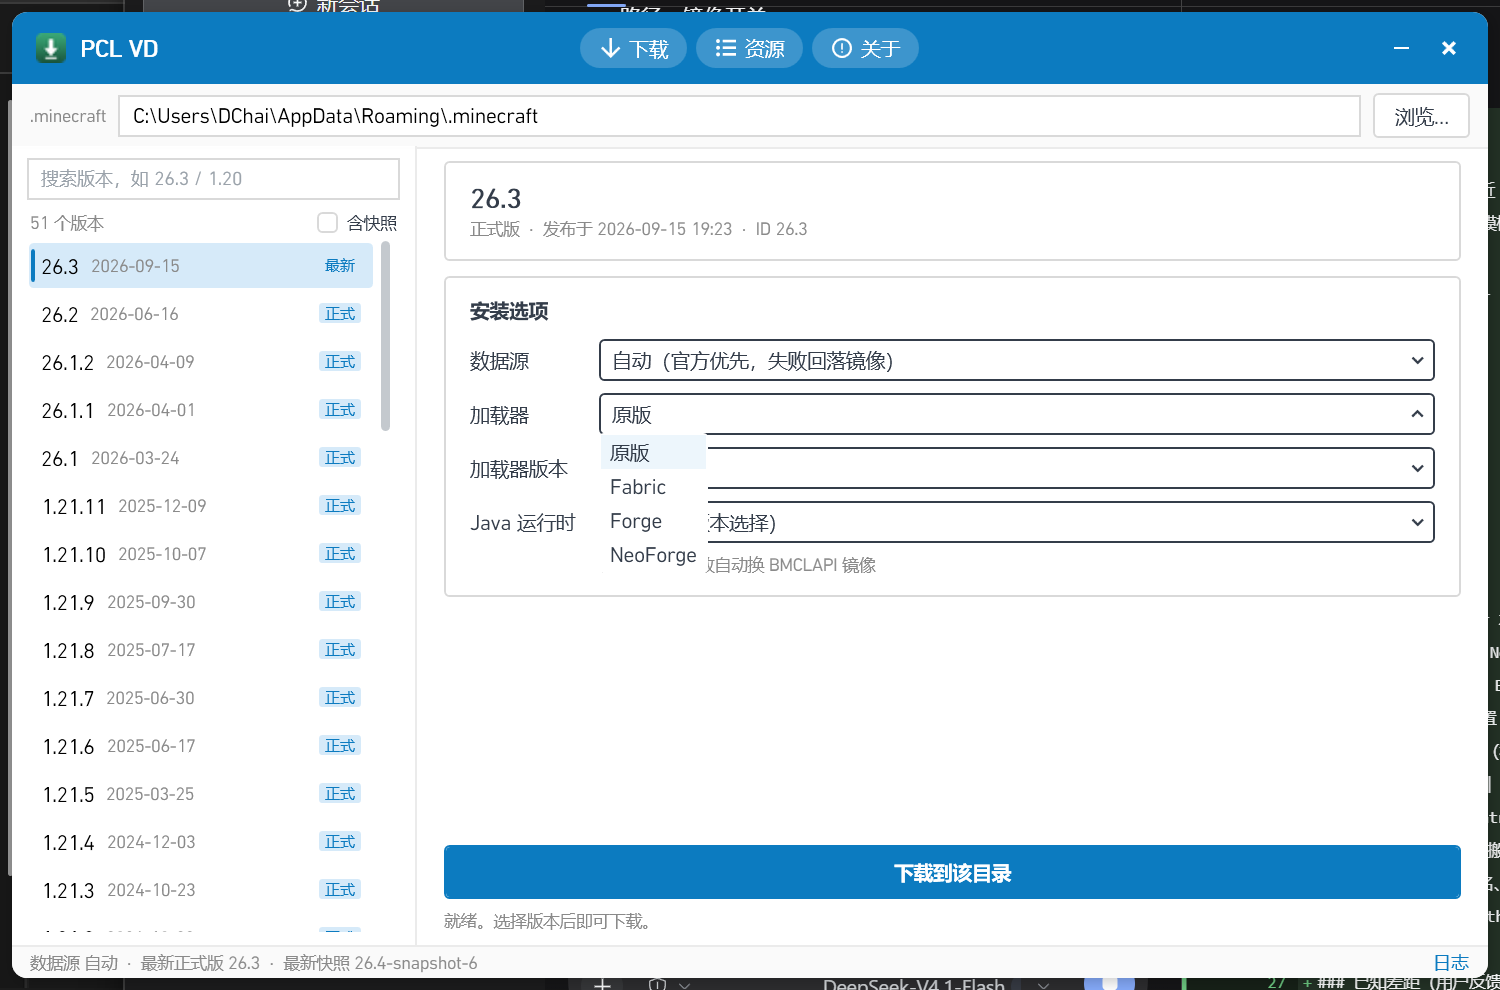
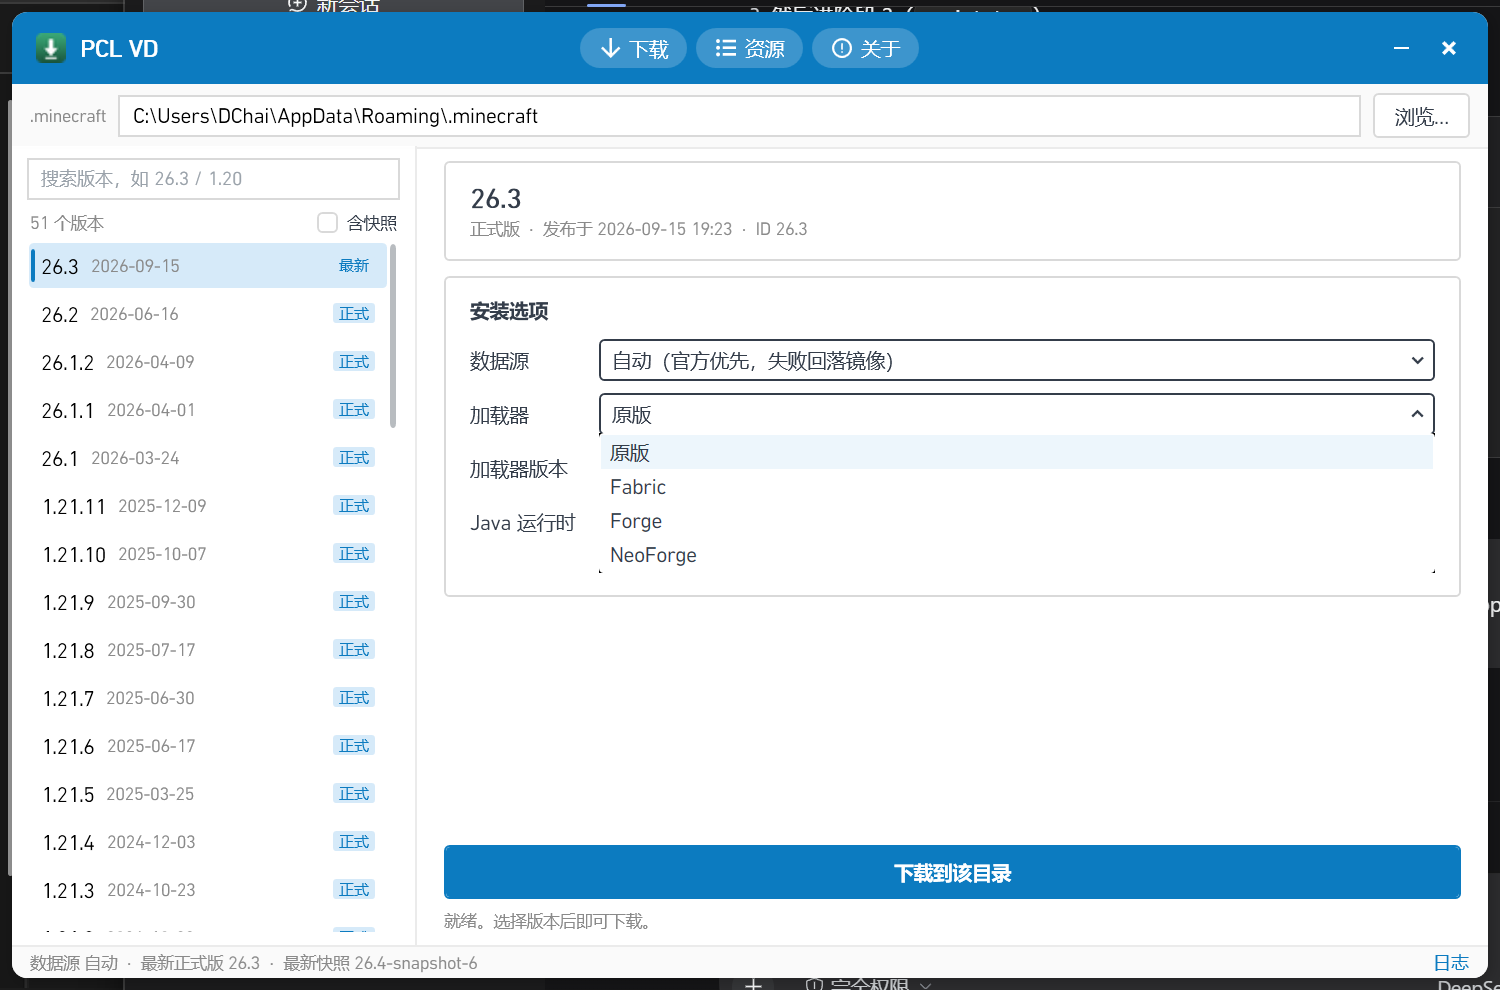
阶段1: 修复下拉弹层透底/宽度；搬入 PCL 的 ScrollBar+Thumb 模板

diff --git a/src/Mcdl.Wpf/App.xaml b/src/Mcdl.Wpf/App.xaml
@@ -213,13 +213,13 @@
                                 ContentTemplate="{TemplateBinding SelectionBoxItemTemplate}"
                                 ContentTemplateSelector="{TemplateBinding ItemTemplateSelector}" />
               <Popup x:Name="PART_Popup" SnapsToDevicePixels="True" VerticalOffset="-1.5"
-                     AllowsTransparency="True"
+                     AllowsTransparency="False"
                      IsOpen="{Binding IsDropDownOpen, Mode=TwoWay, RelativeSource={RelativeSource TemplatedParent}}"
-                     Placement="Bottom" PopupAnimation="Fade">
+                     Placement="Bottom" PopupAnimation="None">
                 <Grid x:Name="PanPopup">
                   <Border Background="White" CornerRadius="3" />
                   <Border x:Name="dropDownBorder" Background="White" CornerRadius="3" BorderBrush="{TemplateBinding BorderBrush}"
-                          BorderThickness="1" Width="{TemplateBinding Width}"
+                          BorderThickness="1" MinWidth="{TemplateBinding ActualWidth}"
                           MaxHeight="{TemplateBinding MaxDropDownHeight}">
                     <ScrollViewer x:Name="DropDownScrollViewer" PanningMode="VerticalOnly"
                                   SnapsToDevicePixels="False" ScrollViewer.CanContentScroll="False"
@@ -338,32 +338,44 @@
       </Setter>
     </Style>
 
-    <!-- 滚动条：6px 细条 -->
+    <!-- ScrollBar / Thumb：取自 PCL Application.xaml，颜色由 Foreground 决定 -->
+    <Style x:Key="MyThumb" TargetType="Thumb">
+      <Setter Property="Stylus.IsPressAndHoldEnabled" Value="False" />
+      <Setter Property="Template">
+        <Setter.Value>
+          <ControlTemplate TargetType="Thumb">
+            <Border Background="{StaticResource ColorBrushSemiTransparent}" SnapsToDevicePixels="True">
+              <Border Background="{TemplateBinding Foreground}" CornerRadius="3" Margin="2" />
+            </Border>
+          </ControlTemplate>
+        </Setter.Value>
+      </Setter>
+    </Style>
+
     <Style TargetType="ScrollBar">
-      <Setter Property="Background" Value="Transparent" />
-      <Setter Property="Width" Value="6" />
+      <Setter Property="FocusVisualStyle" Value="{x:Null}" />
+      <Setter Property="Stylus.IsPressAndHoldEnabled" Value="False" />
+      <Setter Property="OverridesDefaultStyle" Value="True" />
+      <Setter Property="SnapsToDevicePixels" Value="True" />
+      <Setter Property="UseLayoutRounding" Value="True" />
+      <Setter Property="Width" Value="8" />
+      <Setter Property="Foreground" Value="#B8BCC0" />
       <Setter Property="Template">
         <Setter.Value>
           <ControlTemplate TargetType="ScrollBar">
-            <Grid Background="Transparent" Width="6">
+            <Border CornerRadius="2">
               <Track x:Name="PART_Track" IsDirectionReversed="True">
+                <Track.DecreaseRepeatButton>
+                  <RepeatButton Command="{x:Static ScrollBar.PageUpCommand}" Opacity="0" />
+                </Track.DecreaseRepeatButton>
+                <Track.IncreaseRepeatButton>
+                  <RepeatButton Command="{x:Static ScrollBar.PageDownCommand}" Opacity="0" />
+                </Track.IncreaseRepeatButton>
                 <Track.Thumb>
-                  <Thumb>
-                    <Thumb.Template>
-                      <ControlTemplate TargetType="Thumb">
-                        <Border x:Name="Th" Background="#C4C9CE" CornerRadius="3" Width="6" />
-                        <ControlTemplate.Triggers>
-                          <Trigger Property="IsMouseOver" Value="True">
-                            <Setter TargetName="Th" Property="Background" Value="#9AA2AA" />
-                            <Setter TargetName="Th" Property="Width" Value="8" />
-                          </Trigger>
-                        </ControlTemplate.Triggers>
-                      </ControlTemplate>
-                    </Thumb.Template>
-                  </Thumb>
+                  <Thumb Style="{StaticResource MyThumb}" Foreground="{TemplateBinding Foreground}" />
                 </Track.Thumb>
               </Track>
-            </Grid>
+            </Border>
           </ControlTemplate>
         </Setter.Value>
       </Setter>
